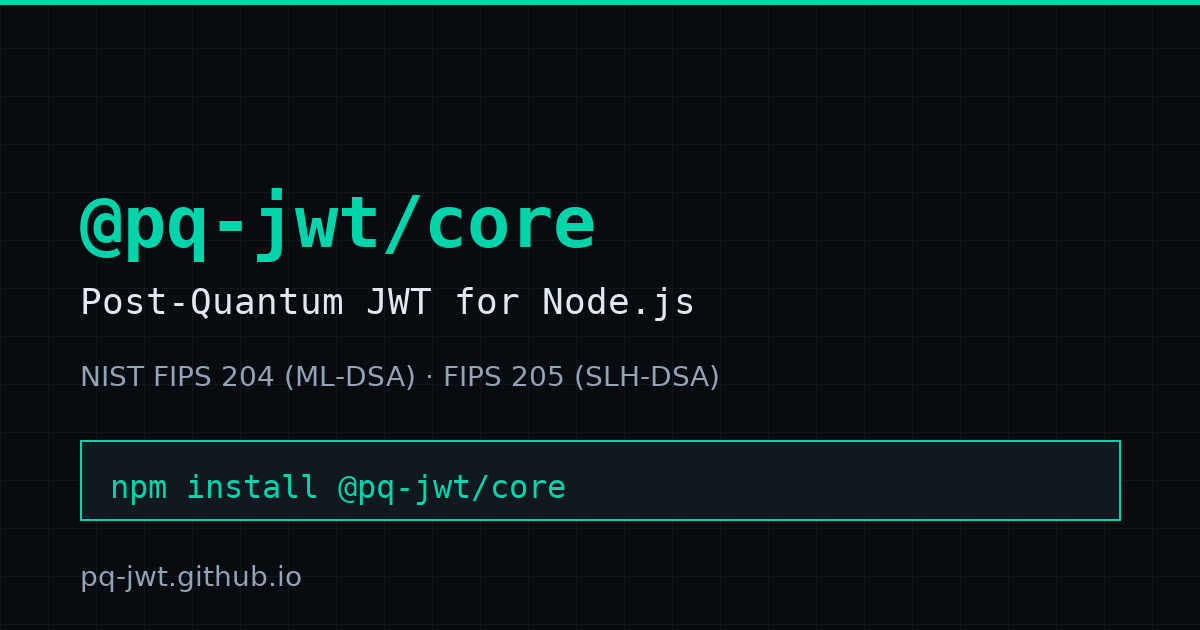
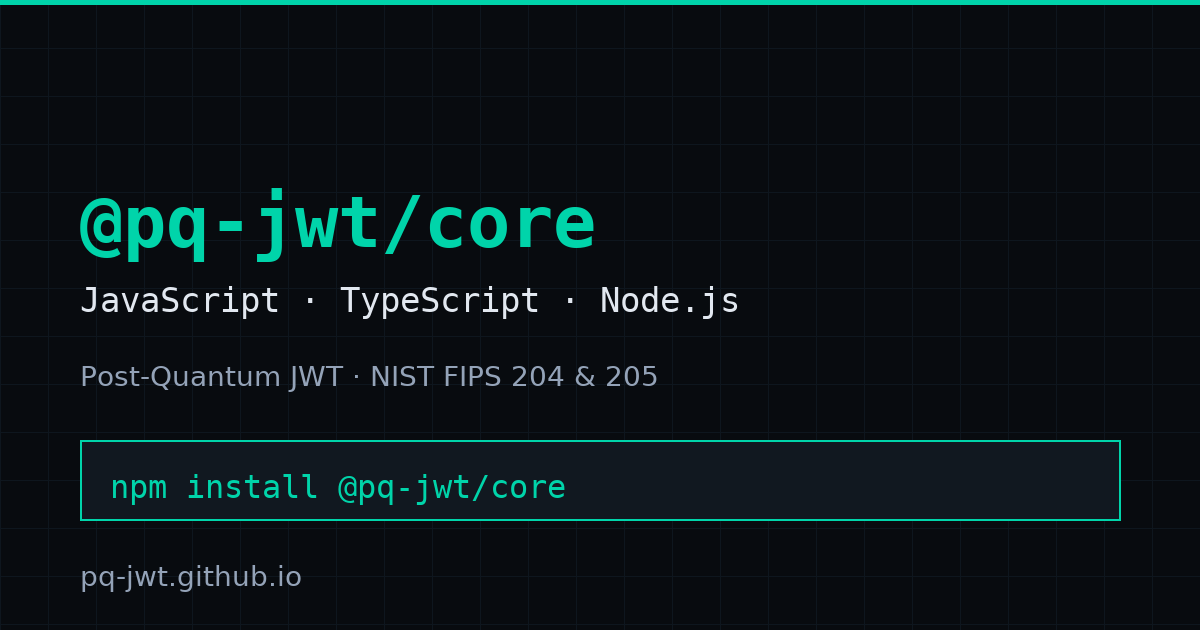
Update copy to JavaScript, TypeScript, and Node.js

Changed region(s): [[0.0617, 0.4524, 0.6167, 0.5127], [0.0617, 0.573, 0.37, 0.6333], [0.4625, 0.573, 0.6167, 0.6333]]

diff --git a/index.html b/index.html
@@ -3,20 +3,20 @@
 <head>
 <meta charset="UTF-8">
 <meta name="viewport" content="width=device-width, initial-scale=1.0">
-<title>pq-jwt — Post-Quantum JWT for Node.js</title>
-<meta name="description" content="Drop-in successor to RS256/ES256. Built on NIST FIPS 204 (ML-DSA) and FIPS 205 (SLH-DSA). The JWT library for the post-quantum era.">
+<title>pq-jwt — Post-Quantum JWT for JS, TypeScript &amp; Node.js</title>
+<meta name="description" content="Drop-in successor to RS256/ES256 for JavaScript, TypeScript, and Node.js. NIST FIPS 204 (ML-DSA) and FIPS 205 (SLH-DSA). Same API as jsonwebtoken.">
 
 <!-- Open Graph — controls how link previews look on every platform -->
-<meta property="og:title"       content="pq-jwt — Post-Quantum JWT for Node.js">
-<meta property="og:description" content="Drop-in successor to RS256/ES256. NIST FIPS 204 (ML-DSA) + FIPS 205 (SLH-DSA). Same API as jsonwebtoken. Full TypeScript.">
+<meta property="og:title"       content="pq-jwt — Post-Quantum JWT for JS, TypeScript &amp; Node.js">
+<meta property="og:description" content="Drop-in successor to RS256/ES256. JavaScript, TypeScript, and Node.js. NIST FIPS 204 (ML-DSA) + FIPS 205 (SLH-DSA). Same API as jsonwebtoken.">
 <meta property="og:url"         content="https://pq-jwt.github.io">
 <meta property="og:type"        content="website">
 <meta property="og:image"       content="https://pq-jwt.github.io/og-image.png">
 
 <!-- Twitter card -->
 <meta name="twitter:card"        content="summary_large_image">
-<meta name="twitter:title"       content="pq-jwt — Post-Quantum JWT for Node.js">
-<meta name="twitter:description" content="npm install @pq-jwt/core — quantum-safe JWTs using NIST FIPS 204">
+<meta name="twitter:title"       content="pq-jwt — Post-Quantum JWT for JS, TypeScript &amp; Node.js">
+<meta name="twitter:description" content="npm install @pq-jwt/core — quantum-safe JWTs for JavaScript, TypeScript, and Node.js">
 <meta name="twitter:image"       content="https://pq-jwt.github.io/og-image.png">
 
 <!-- Google Analytics: replace G-XXXXXXXXXX with your measurement ID from analytics.google.com -->
@@ -1051,7 +1051,7 @@ console.<span class="fn">log</span>(payload.role);  <span class="cmt">// 'admin'
     <div class="tl-item active">
       <div class="tl-year">2025 — now</div>
       <div class="tl-event">Early adopters build tooling</div>
-      <div class="tl-desc">@pq-jwt/core ships. First developer-friendly PQ JWT library for Node.js.</div>
+      <div class="tl-desc">@pq-jwt/core ships. First developer-friendly PQ JWT library for JavaScript, TypeScript, and Node.js.</div>
     </div>
     <div class="tl-item">
       <div class="tl-year">2026</div>
@@ -1083,7 +1083,7 @@ console.<span class="fn">log</span>(payload.role);  <span class="cmt">// 'admin'
     Your authentication,<br>quantum-proof.
   </h2>
   <p style="color:var(--muted2);max-width:480px;margin:0 auto 2.5rem;text-align:center">
-    MIT license. Full TypeScript. Express ready. Built on audited cryptography.
+    MIT license. JavaScript, TypeScript &amp; Node.js. Express ready. Built on audited cryptography.
     Maintained by <strong style="color:var(--text)">Sachin Ruhil</strong>.
   </p>
   <div style="display:flex;gap:1rem;justify-content:center;flex-wrap:wrap">